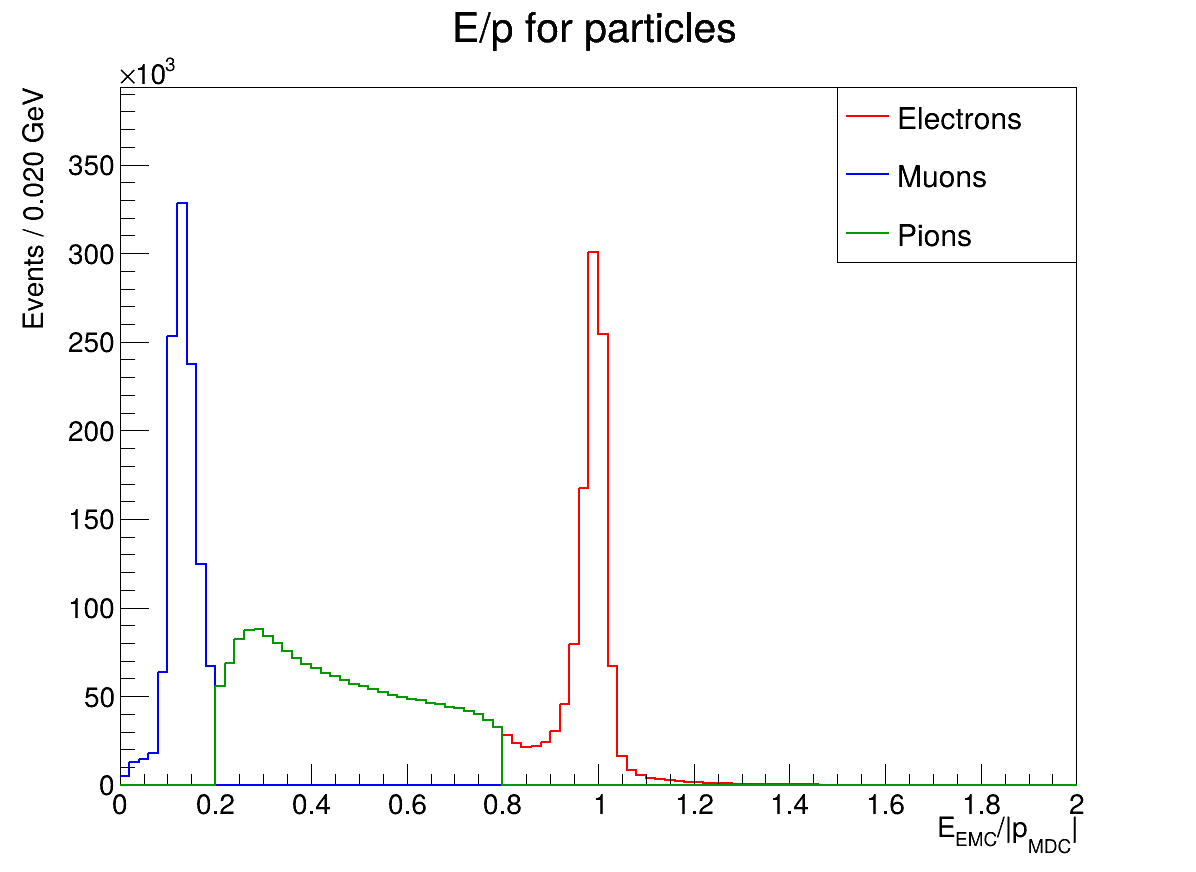
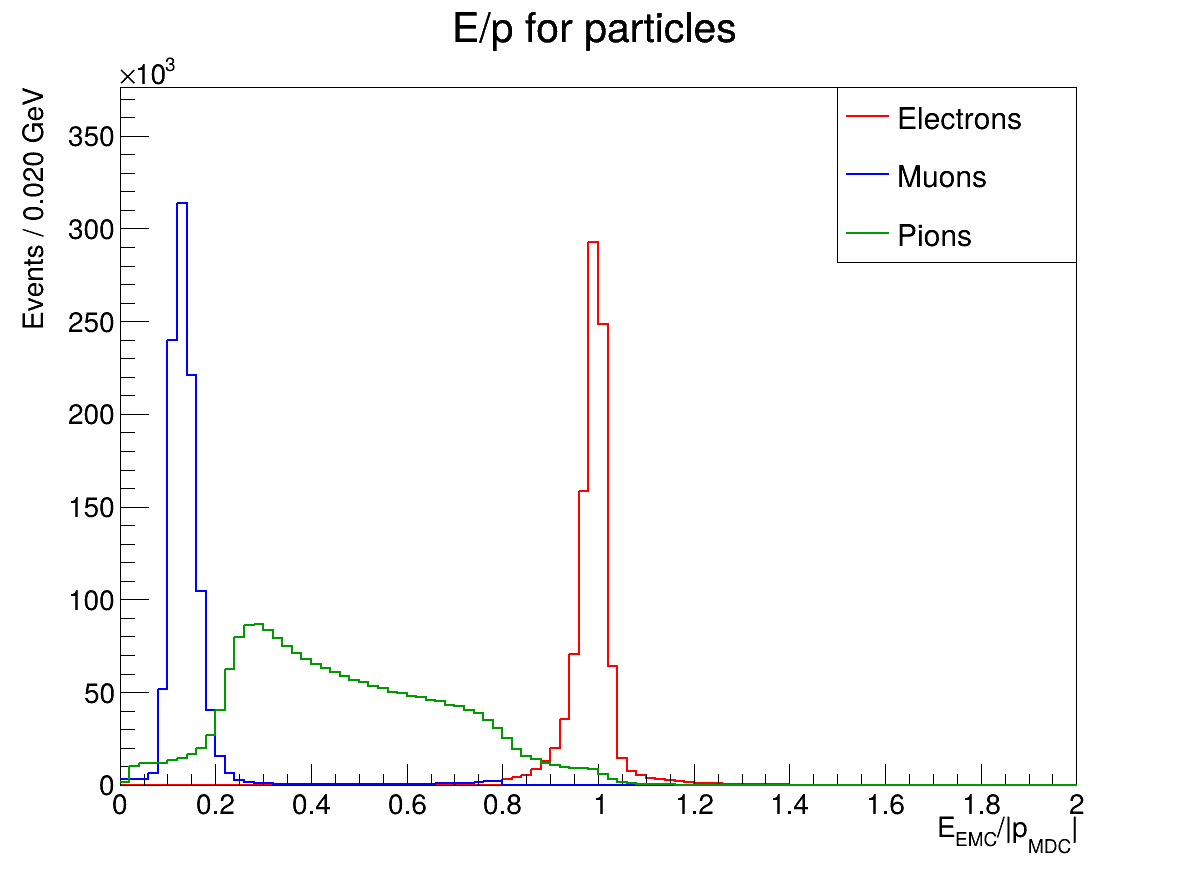
fixed e over p finally

diff --git a/part1_PID/ZcAnalysis.C b/part1_PID/ZcAnalysis.C
@@ -216,22 +216,23 @@ if (p > 0) {
     // PID using detector information
 
 // electrons
-if (EoverP > 0.8)
+if (p > 1.0 && EoverP > 0.8)
 {
     h1_EoverP_e->Fill(EoverP);
 }
 
 // muons
-else if (EoverP < 0.20)
+else if (p > 1.0 && EoverP < 0.8)
 {
     h1_EoverP_mu->Fill(EoverP);
 }
 
 // pions
-else
+else if (p < 1.0)
 {
     h1_EoverP_pi->Fill(EoverP);
 }
+
     // problem 2.4
 double px = dblTracksPx[i];
 double py = dblTracksPy[i];
